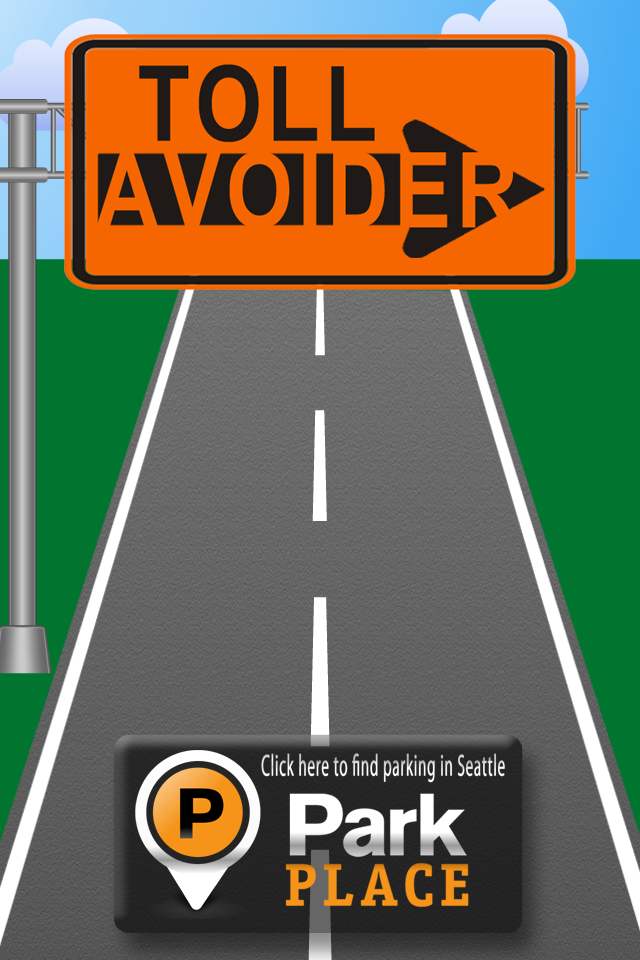
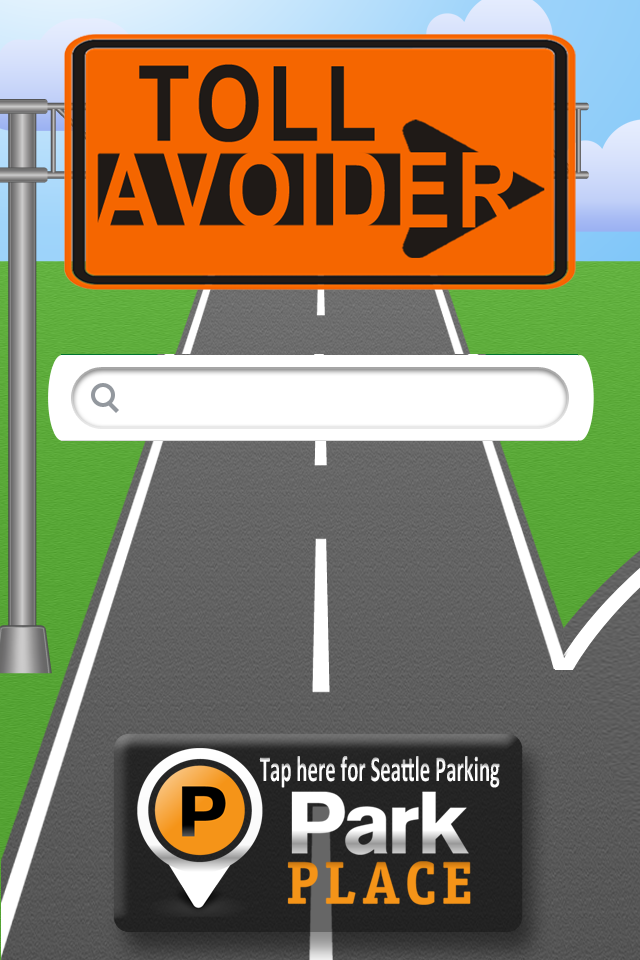
Use final backgrounds on Search and Results views.

diff --git a/Classes/View Controllers/TAResultsViewController.m b/Classes/View Controllers/TAResultsViewController.m
@@ -102,6 +102,9 @@ static CLLocationCoordinate2D I90W_WAYPOINT = (CLLocationCoordinate2D) { 47.590,
     // Configure navigation item
     self.navigationItem.title = @"Results";
     
+    // Make table transparent
+    tableView.backgroundColor = [UIColor clearColor];
+    
     // Configure row height
     TAResultsTableViewCell *anyCell = wa520Cell;
     [tableView setRowHeight:anyCell.frame.size.height];
